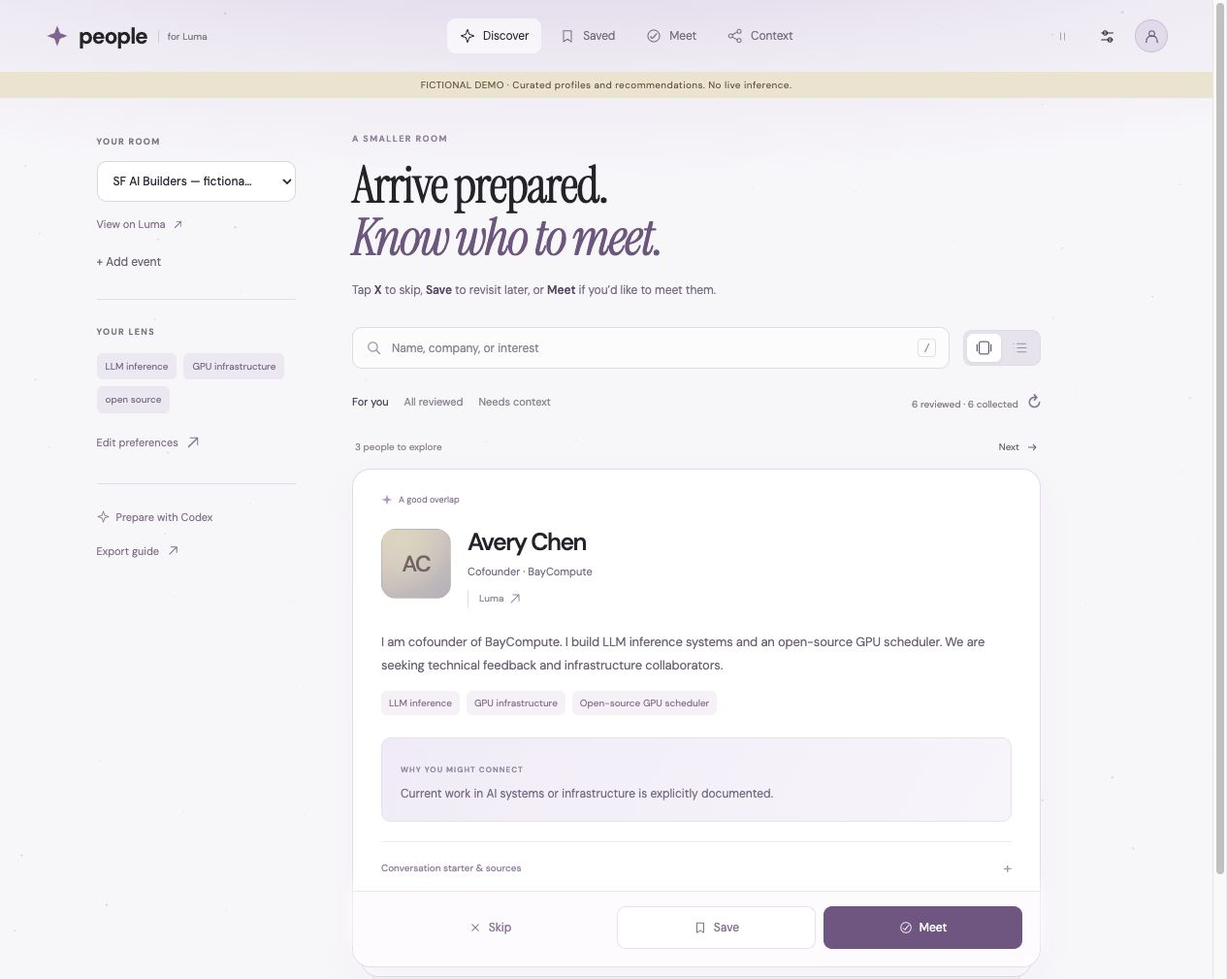
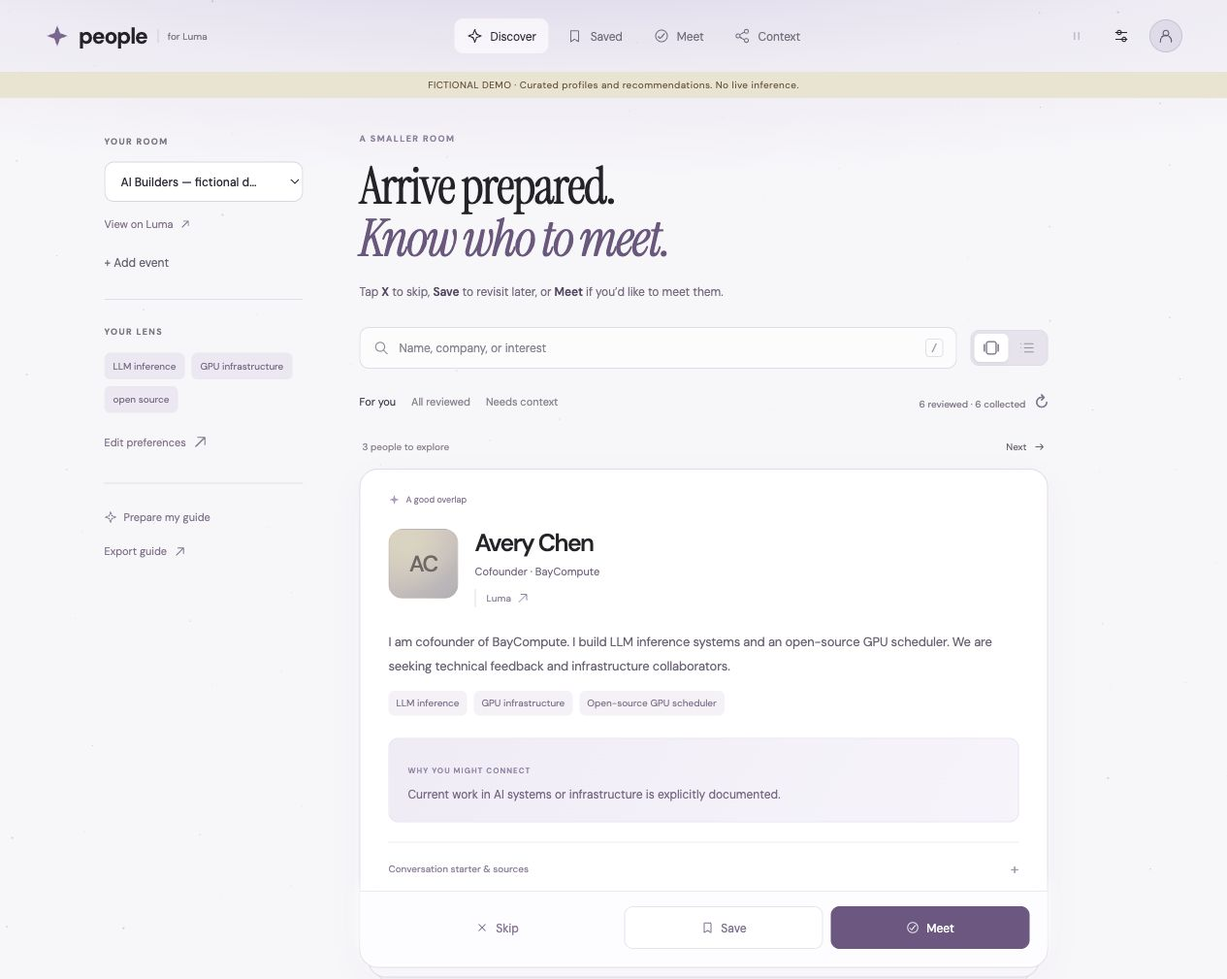
Make event guidance location neutral

diff --git a/src/luma_review/static/app.js b/src/luma_review/static/app.js
@@ -81,7 +81,7 @@
   }
   function setupView() {
     const q=state.questions[step-1];
-    return `<main class="setup"><aside class="setup-art"><div class="eyebrow">MAKE EVERY HELLO COUNT</div><h1>Arrive prepared.<br><em>Know who to meet.</em></h1><p>Your interests. The right people.<br>A reason to say hello.</p></aside><section class="setup-panel"><div class="setup-progress"><span>${step===0?'CONNECT':step===6?'YOUR AGENT':`YOUR PROFILE · ${step} OF 5`}</span><div class="progress-dots">${Array.from({length:7},(_,i)=>`<i class="${i<=step?'done':''}"></i>`).join('')}</div></div>${step===0?`<div class="setup-copy"><span class="setup-symbol">${icon('event')}</span><h2>${hosted?'A better evening starts here.':'Connect your room.'}</h2><p>${hosted?'Five quick questions. Your agent takes care of the research.':'Sign in to Luma once in the app’s research browser.'}</p>${!hosted?'<button id="setup-luma" class="primary full">Connect Luma ↗</button><p class="hint">Enter your verification code on Luma, then return here.</p>':''}<button id="luma-continue" class="${hosted?'primary':'secondary'} full">${hosted?'Get started':'Continue'} ${icon('arrow')}</button><button id="try-demo" class="text-button">Explore the fictional demo</button></div>`:step===6?`<div class="setup-copy"><h2>Connect once. Meet better.</h2><p>Your agent does the research. You make the connection.</p>${connectionFields()}<button class="primary full" id="finish-setup">${editing?'Save connections':'Find my people'} ${icon('arrow')}</button><p class="hint">You can change this anytime.</p></div>`:`<form id="question-form"><h2>${esc(q?.label)}</h2><p>${esc(q?.hint)}</p><textarea id="answer" name="answer" aria-label="${esc(q?.label)}" required maxlength="3000" placeholder="${esc(questionPlaceholder(q?.id))}">${esc(answers[q?.id]||'')}</textarea>${q?.id==='interests'?'<span class="hint">Separate topics with commas.</span>':''}${step===5?`<details class="setup-detail"><summary>Must-have criteria <span class="muted">optional</span></summary><textarea id="must-haves" aria-label="Must-have criteria" placeholder="One indispensable requirement per line">${esc((answers.must_haves||[]).join('\n'))}</textarea></details>`:''}<div class="step-actions"><button type="button" id="setup-back" class="text-button">${icon('back')} Back</button><button type="submit" class="primary">${step===5?'Create profile':'Continue'} ${icon('arrow')}</button></div></form>`}</section></main>`;
+    return `<main class="setup"><aside class="setup-art"><div class="eyebrow">MAKE EVERY HELLO COUNT</div><h1>Arrive prepared.<br><em>Know who to meet.</em></h1><p>Your interests. The right people.<br>A reason to say hello.</p></aside><section class="setup-panel"><div class="setup-progress"><span>${step===0?'CONNECT':step===6?'YOUR AGENT':`YOUR PROFILE · ${step} OF 5`}</span><div class="progress-dots">${Array.from({length:7},(_,i)=>`<i class="${i<=step?'done':''}"></i>`).join('')}</div></div>${step===0?`<div class="setup-copy"><span class="setup-symbol">${icon('event')}</span><h2>${hosted?'Your next event starts here.':'Connect your room.'}</h2><p>${hosted?'Five quick questions. Your agent takes care of the research.':'Sign in to Luma once in the app’s research browser.'}</p>${!hosted?'<button id="setup-luma" class="primary full">Connect Luma ↗</button><p class="hint">Enter your verification code on Luma, then return here.</p>':''}<button id="luma-continue" class="${hosted?'primary':'secondary'} full">${hosted?'Get started':'Continue'} ${icon('arrow')}</button><button id="try-demo" class="text-button">Explore the fictional demo</button></div>`:step===6?`<div class="setup-copy"><h2>Connect once. Meet better.</h2><p>Your agent does the research. You make the connection.</p>${connectionFields()}<button class="primary full" id="finish-setup">${editing?'Save connections':'Find my people'} ${icon('arrow')}</button><p class="hint">You can change this anytime.</p></div>`:`<form id="question-form"><h2>${esc(q?.label)}</h2><p>${esc(q?.hint)}</p><textarea id="answer" name="answer" aria-label="${esc(q?.label)}" required maxlength="3000" placeholder="${esc(questionPlaceholder(q?.id))}">${esc(answers[q?.id]||'')}</textarea>${q?.id==='interests'?'<span class="hint">Separate topics with commas.</span>':''}${step===5?`<details class="setup-detail"><summary>Must-have criteria <span class="muted">optional</span></summary><textarea id="must-haves" aria-label="Must-have criteria" placeholder="One indispensable requirement per line">${esc((answers.must_haves||[]).join('\n'))}</textarea></details>`:''}<div class="step-actions"><button type="button" id="setup-back" class="text-button">${icon('back')} Back</button><button type="submit" class="primary">${step===5?'Create profile':'Continue'} ${icon('arrow')}</button></div></form>`}</section></main>`;
   }
   function questionPlaceholder(id){return {work:'I’m building…',interests:'AI infrastructure, design, climate…',looking_for:'A collaborator, practical feedback, a new perspective…',connect_with:'People building or researching…',can_offer:'Experience with…, an introduction, thoughtful feedback…'}[id]||'';}
   function bindSetup() {
@@ -110,7 +110,7 @@
     if(!guide)return '<div class="empty"><h2>Add an event to begin.</h2></div>';
     const counts=guide.counts, saved=view==='saved', meet=view==='meet';
     const title=saved?'Worth another look.':meet?'Your next hello.':'Arrive prepared.<br><em>Know who to meet.</em>';
-    const sub=saved?'Good connections are worth keeping.':meet?'A few people. A better evening.':'Tap <b>X</b> to skip, <b>Save</b> to revisit later, or <b>Meet</b> if you’d like to meet them.';
+    const sub=saved?'Good connections are worth keeping.':meet?'A few people. A better event.':'Tap <b>X</b> to skip, <b>Save</b> to revisit later, or <b>Meet</b> if you’d like to meet them.';
     const active=filteredPeople().length;
     return `<div class="page-heading"><div class="eyebrow">${saved?'YOUR SHORTLIST':meet?'PEOPLE TO MEET':'A SMALLER ROOM'}</div><h1>${title}</h1><p>${sub}</p></div><div class="discovery-toolbar"><div class="search-wrap">${icon('search')}<input id="search" type="search" aria-label="Search people" placeholder="Name, company, or interest" value="${esc(query)}" autocomplete="off"><kbd>/</kbd></div><div class="segmented" aria-label="Browse style"><button data-mode="stack" class="${mode==='stack'?'active':''}" aria-label="Card stack" aria-pressed="${mode==='stack'}">${icon('cards')}</button><button data-mode="list" class="${mode==='list'?'active':''}" aria-label="Scroll profiles" aria-pressed="${mode==='list'}">${icon('list')}</button></div></div>${!saved&&!meet?`<div class="discovery-meta"><div class="small-tabs">${[['suggested','For you'],['all','All reviewed'],['verify','Needs context']].map(([id,label])=>`<button data-filter="${id}" class="${filter===id?'active':''}">${label}</button>`).join('')}</div><span class="coverage">${counts.reviewed} reviewed · ${counts.captured} collected${guide.event.displayed_guest_count>counts.captured?' · '+guide.event.displayed_guest_count+' shown on Luma':''}${guide.event.roster_complete===false?' · partial list':''}${!exported?` <button id="analyze" aria-label="Refresh analysis" title="Refresh analysis">↻</button>`:''}</span></div>`:`<div class="discovery-meta"><span class="muted">${saved?navCount('saved'):navCount('meet')} ${(saved?navCount('saved'):navCount('meet'))===1?'person':'people'}</span><span class="hint">${meet?'Meet is a private plan; no message is sent.':''}</span></div>`}${state.job.running?`<div class="notice" id="analysis-progress" role="status">Updating your guide · <span>${esc(state.job.stage||'Starting')} · ${state.job.current||0}/${state.job.total||'…'}</span><button id="stop-agent" class="text-button">Stop</button></div>`:''}${state.job.stopped?'<div class="notice">Stopped. Completed work is saved; refresh to resume.</div>':''}${state.agent?.needs_action?`<div class="notice">${esc(state.agent.needs_action)} <button id="agent-action-needed" class="text-button">Open connections</button></div>`:''}${state.job.error?`<div class="notice error">${esc(state.job.error)}</div>`:''}${Object.keys(guide.errors||{}).length?'<div class="notice error">Some profiles need another analysis attempt.</div>':''}<div id="discovery-results" aria-live="polite">${cardsView()}</div><div class="guide-footer"><span id="remaining-count">${saved?navCount('saved')+' saved':meet?navCount('meet')+' to meet':active+' in your stack'}</span>${exported?'<span>Read-only export</span>':''}</div>`;
   }

diff --git a/src/luma_review/static/browser-workspace.js b/src/luma_review/static/browser-workspace.js
@@ -5,11 +5,13 @@
   const QUESTIONS=[
     {id:'work',label:'What are you working on?',hint:'Your role, project, or company in one sentence.'},
     {id:'interests',label:'What catches your curiosity?',hint:'A few professional topics you could talk about for hours.'},
-    {id:'looking_for',label:'What would make the evening worthwhile?',hint:'A collaborator, feedback, customers, or a fresh perspective.'},
+    {id:'looking_for',label:'What would make this event worthwhile?',hint:'A collaborator, feedback, customers, or a fresh perspective.'},
     {id:'connect_with',label:'Who would you love to meet?',hint:'The roles, experience, or backgrounds that matter to you.'},
     {id:'can_offer',label:'What can you bring to the conversation?',hint:'Experience, useful feedback, an introduction, or something to build together.'}
   ];
   const clone=value=>JSON.parse(JSON.stringify(value));
+  // Older onboarding added this unused tag without asking the user. Keep IDs and reviewed work.
+  const cleanLegacyBrief=brief=>{if(brief?.region==='San Francisco Bay Area'){const {region,...rest}=brief;return rest;}return brief;};
   function url(value,luma=false){const parsed=new URL(value);if(!['https:','http:'].includes(parsed.protocol)||parsed.username||parsed.password)throw new Error('Use a valid HTTP(S) link.');if(luma&&!['luma.com','lu.ma','www.luma.com'].includes(parsed.hostname))throw new Error('Use a Luma event link.');if(luma){parsed.hostname='luma.com';parsed.protocol='https:';parsed.search='';parsed.hash='';}return parsed.href.replace(/\/$/,'');}
   function criteria(brief){
     const cell=v=>String(v).replace(/\|/g,'\\|').replace(/[\r\n]+/g,' ');
@@ -17,16 +19,16 @@
     brief.must_haves.forEach((v,i)=>rows.push(`| M${i+1} | must | 0 | ${cell(v)} | Explicit professional evidence; missing information is unknown |`));
     const preferences=[['P1',4,'Professional work or interests relevant to: '+brief.interests.join(', ')],['P2',5,'Background relevant to: '+brief.connect_with],['P3',5,'Experience that could contribute to: '+brief.looking_for],['P4',2,'Professional context where my contribution may be useful: '+brief.can_offer]];
     for(const [id,weight,condition] of preferences)rows.push(`| ${id} | prefer | ${weight} | ${cell(condition)} | A specific role, project, or declared professional activity; no inferred willingness |`);
-    rows.push('','## Rules','','Use English for summaries and reasons. Preserve source quotes verbatim. Missing evidence means unknown, not no. Shared context does not establish a personal relationship.');return rows.join('\n')+'\n';
+    rows.push('','## Rules','','Apply a geographic preference only when I explicitly state one in my answers or criteria.','Use English for summaries and reasons. Preserve source quotes verbatim. Missing evidence means unknown, not no. Shared context does not establish a personal relationship.');return rows.join('\n')+'\n';
   }
   function makeBrief(value){
-    const brief={version:1,region:'San Francisco Bay Area',id:'browser-profile'};
+    const brief={version:1,id:'browser-profile'};
     for(const q of QUESTIONS){let answer=value[q.id];if(q.id==='interests'){answer=Array.isArray(answer)?answer:String(answer||'').split(',');brief.interests=[...new Set(answer.map(s=>String(s).trim()).filter(Boolean))];if(!brief.interests.length||brief.interests.length>20)throw new Error('Add between one and twenty interests.');}else{if(typeof answer!=='string'||!answer.trim()||answer.length>3000)throw new Error('Add a short answer to each question.');brief[q.id]=answer.trim();}}
     brief.must_haves=Array.isArray(value.must_haves)?value.must_haves:String(value.must_haves||'').split('\n').map(s=>s.trim()).filter(Boolean);if(brief.must_haves.length>20||brief.must_haves.some(v=>typeof v!=='string'||!v.trim()||v.length>3000))throw new Error('Keep must-have criteria below twenty.');return brief;
   }
   function validateGuide(value){
     if(!value||!Array.isArray(value.people)||!value.event||!value.brief||!value.graph||!Array.isArray(value.graph.nodes)||!Array.isArray(value.graph.edges)||typeof value.criteria_markdown!=='string')throw new Error('Choose a reviewed guide JSON, exported by your agent or the local app.');
-    const guide=clone(value);guide.event.url=url(guide.event.url,true);makeBrief(guide.brief);
+    const guide=clone(value);guide.event.url=url(guide.event.url,true);makeBrief(guide.brief);guide.brief=cleanLegacyBrief(guide.brief);
     if(!guide.event_id||!guide.people.length||guide.people.length>10000)throw new Error('The guide needs an event ID and reviewed profiles.');
     const seen=new Set(),statuses=['Preference match','Meets required criteria','Needs verification','No preferences matched','Outside criteria'];
     for(const p of guide.people){
@@ -46,6 +48,7 @@
   }
   function create(storage,fetcher){
     let current;try{current=JSON.parse(storage.getItem(KEY)||'null');}catch{}current=current||{brief:null,events:[],guides:{},settings:{backend:'agent',model:'',luma:'browser',setup_complete:true}};
+    current.brief=cleanLegacyBrief(current.brief);for(const guide of Object.values(current.guides))guide.brief=cleanLegacyBrief(guide.brief);
     function save(next){storage.setItem(KEY,JSON.stringify(next));current=next;}
     async function request(path,data){
       const next=clone(current),parsed=new URL(path,'https://people.example'),route=parsed.pathname;
@@ -53,7 +56,7 @@
         if(route==='/api/state')return clone({brief:current.brief,events:current.events,settings:current.settings,questions:QUESTIONS,job:{},criteria_markdown:current.criteria_markdown||'',connections:{}});
         if(route==='/api/guide'||route==='/api/export'){const id=parsed.searchParams.get('event');if(!current.guides[id])throw new Error('Add an event first.');const g=clone(current.guides[id]);if(g.analysis_stale){g.brief=current.brief;g.criteria_markdown=current.criteria_markdown;g.people=[];g.counts.reviewed=0;g.counts.recommended=0;g.graph={nodes:[],edges:[],shared_contexts:[]};}return g;}
         if(route==='/api/integration'){
-          const agent=parsed.searchParams.get('agent'),args=['--python','3.13','--from','luma-profile-review[mcp] @ git+https://github.com/EmaRimoldi/luma-profile-review.git@feature/personal-event-guide','luma-review','mcp'];
+          const agent=parsed.searchParams.get('agent'),args=['--python','3.13','--from','luma-profile-review[mcp] @ git+https://github.com/EmaRimoldi/luma-profile-review.git@main','luma-review','mcp'];
           const server={command:'uvx',args};let config=agent==='copilot'?{servers:{people_for_luma:{type:'stdio',...server}}}:agent==='opencode'?{mcp:{people_for_luma:{type:'local',command:['uvx',...args],enabled:true}}}:{mcpServers:{people_for_luma:server}};
           return {location:'Your agent’s MCP settings · requires uv',configuration:agent==='codex'?'[mcp_servers.people_for_luma]\ncommand = "uvx"\nargs = '+JSON.stringify(args):JSON.stringify(config,null,2)};
         }

diff --git a/tests/test_product.py b/tests/test_product.py
@@ -55,6 +55,17 @@ class OnboardingTests(unittest.TestCase):
         brief = make_brief({**DEMO_ANSWERS, "interests": "inference, inference, robotics"})
         self.assertEqual(brief["interests"], ["inference", "robotics"])
 
+    def test_onboarding_does_not_assign_a_region(self):
+        brief = make_brief(DEMO_ANSWERS)
+        self.assertNotIn("region", brief)
+        self.assertNotIn("San Francisco", criteria_from_brief(brief))
+
+    def test_user_location_requirement_is_preserved(self):
+        requirement = "Currently works in São Paulo"
+        brief = make_brief({**DEMO_ANSWERS, "must_haves": [requirement]})
+        rules = parse_criteria(criteria_from_brief(brief)).rules
+        self.assertEqual([r.condition for r in rules if r.kind == "must"], [requirement])
+
 
 class CollectionTests(ProductBase):
     def test_roster_capture_is_resumable_and_preserves_sources(self):
@@ -141,6 +152,38 @@ class StructureAndGraphTests(ProductBase):
 
 
 class GuideTests(ProductBase):
+    def test_legacy_region_cleanup_preserves_cached_work_and_explicit_criteria(self):
+        brief_path = self.workspace.root / "brief.json"
+        brief = self.workspace.brief()
+        brief_path.write_text(json.dumps({**brief, "region": "San Francisco Bay Area"}))
+        original_criteria = self.guide["criteria_markdown"] + "\nLocation context explicitly supplied by the user: San Francisco.\n"
+        # Keep the existing cache key: the old automatic tag never affected inference.
+        reopened = Workspace(self.workspace.root)
+        self.assertNotIn("region", reopened.brief())
+        self.assertEqual(reopened.brief()["id"], brief["id"])
+        self.assertEqual(reopened.guide(self.event_id)["counts"], self.guide["counts"])
+        reopened.save_criteria(original_criteria)
+        self.assertEqual(reopened.criteria().markdown, original_criteria)
+        brief_path.write_text(json.dumps({**brief, "region": "Berlin"}))
+        self.assertEqual(reopened.brief()["region"], "Berlin")
+
+    def test_event_location_does_not_change_deterministic_matching(self):
+        for city, slug in [("Berlin", "berlin"), ("Singapore", "singapore"), ("São Paulo", "sao-paulo")]:
+            with self.subTest(city=city):
+                dataset = copy.deepcopy(self.workspace.dataset(self.event_id))
+                dataset["event"].update(name=f"Builders in {city}", url=f"https://luma.com/test-{slug}")
+                event_id = self.workspace.import_dataset(dataset)["event_id"]
+                for stage in ["structure", "matching"]:
+                    tasks = self.workspace.tasks(event_id, stage)
+                    responses = {p["profile_url"]: p["professional"] if stage == "structure" else {
+                        "summary": p["summary"], "assessments": p["assessments"]} for p in self.guide["people"]}
+                    self.workspace.submit(event_id, stage, tasks["request_hash"], responses)
+                guide = self.workspace.guide(event_id)
+                self.assertEqual(guide["event"]["name"], f"Builders in {city}")
+                self.assertEqual(guide["counts"], self.guide["counts"])
+                self.assertEqual({p["profile_url"]: p["score"] for p in guide["people"]},
+                                 {p["profile_url"]: p["score"] for p in self.guide["people"]})
+
     def test_demo_is_explicit_and_unknown_profiles_remain_unknown(self):
         self.assertTrue(self.guide["demo"])
         morgan = next(p for p in self.guide["people"] if "Morgan" in p["name"])

diff --git a/src/luma_review/onboarding.py b/src/luma_review/onboarding.py
@@ -4,16 +4,27 @@ from .core import ReviewError, fingerprint, text
 QUESTIONS = [
     {"id": "work", "label": "What are you working on?", "hint": "Your role, project, or company in a sentence."},
     {"id": "interests", "label": "What catches your curiosity?", "hint": "A few professional topics you could talk about for hours."},
-    {"id": "looking_for", "label": "What would make the evening worthwhile?", "hint": "A collaborator, feedback, customers, or a fresh perspective."},
+    {"id": "looking_for", "label": "What would make this event worthwhile?", "hint": "A collaborator, feedback, customers, or a fresh perspective."},
     {"id": "connect_with", "label": "Who would you love to meet?", "hint": "The roles, experience, or backgrounds that matter to you."},
     {"id": "can_offer", "label": "What can you bring to the conversation?", "hint": "Your experience, a useful introduction, feedback, or a collaboration."},
 ]
 
 
+def clean_legacy_brief(brief):
+    """Drop the old automatic region tag, preserving IDs and valid cached work.
+
+    The tag was never used by scoring or inference. Explicit geographic criteria
+    and any custom region metadata are retained.
+    """
+    if isinstance(brief, dict) and brief.get("region") == "San Francisco Bay Area":
+        return {key: value for key, value in brief.items() if key != "region"}
+    return brief
+
+
 def make_brief(answers: dict) -> dict:
     if not isinstance(answers, dict):
         raise ReviewError("Onboarding answers must be an object")
-    brief = {"version": 1, "region": "San Francisco Bay Area"}
+    brief = {"version": 1}
     for question in QUESTIONS:
         key = question["id"]
         value = answers.get(key)
@@ -62,6 +73,7 @@ def criteria_from_brief(brief: dict) -> str:
     for ident, weight, condition, evidence in preferences:
         lines.append(f"| {ident} | prefer | {weight} | {cell(condition)} | {evidence} |")
     lines += ["", "## Rules", "", "These are editable preferences derived from my own answers. Only explicit must_haves are hard requirements.",
+              "Apply a geographic preference only when I explicitly state one in my answers or criteria.",
               "Missing evidence means unknown, not no. Potential professional relevance is not proof of willingness to meet, buy, invest, or collaborate.",
               "Distinguish current and past work. Base decisions on source excerpts, not a person's popularity or event attendance."]
     return "\n".join(lines) + "\n"

diff --git a/src/luma_review/demo.py b/src/luma_review/demo.py
@@ -39,8 +39,8 @@ def load_demo(workspace):
                     "title": "Fictional professional bio", "retrieved_at": "2026-10-19T12:00:00-07:00", "text": excerpt}]
         people.append({"name": name + " (demo)", "profile_url": f"https://luma.com/user/demo-{slug}",
                        "sources": sources, "outbound_links": [], "collection_complete": True})
-    dataset = {"version": 1, "demo": True, "event": {"name": "SF AI Builders — fictional demo",
-               "url": "https://luma.com/demo-sf-builders", "displayed_guest_count": len(people),
+    dataset = {"version": 1, "demo": True, "event": {"name": "AI Builders — fictional demo",
+               "url": "https://luma.com/demo-ai-builders", "displayed_guest_count": len(people),
                "collection_scope": "Six fictional profiles. Demo assessments are curated fixtures, not live model outputs.",
                "roster_complete": True}, "people": people}
     event_id = workspace.import_dataset(dataset)["event_id"]

diff --git a/src/luma_review/workspace.py b/src/luma_review/workspace.py
@@ -16,7 +16,7 @@ from .core import (PROMPT_VERSION, ReviewError, aggregate, fingerprint, make_pro
 from .graph import build_graph
 from .contact import model_profile, presentation, validate_presentation
 from .matching import evidence_ranking, keyword_ranking
-from .onboarding import QUESTIONS, criteria_from_brief, make_brief
+from .onboarding import QUESTIONS, clean_legacy_brief, criteria_from_brief, make_brief
 from .pipeline import write_json
 from .professional import referenced_urls, structure_prompt, structure_schema, validate_structure
 from .presentation import present_brief, present_criteria, present_guide
@@ -68,7 +68,7 @@ class Workspace:
         return path
 
     def brief(self):
-        return self.read(self.root / "brief.json")
+        return clean_legacy_brief(self.read(self.root / "brief.json"))
 
     def criteria(self):
         path = self.root / "criteria.md"

diff --git a/README.md b/README.md
@@ -4,7 +4,7 @@
 
 ### Arrive prepared. Know who to meet.
 
-Turn a crowded San Francisco event into a personal guide to your next good conversation.
+Turn a crowded Luma event into a personal guide to your next good conversation.
 
 [Explore the demo](https://people-for-luma.poggiolabmit.chatgpt.site) · [Get started](#your-first-guide) · [Setup help](docs/onboarding.md) · [Contribute](#build-with-us)
 
@@ -20,6 +20,21 @@ Turn a crowded San Francisco event into a personal guide to your next good conve
 **Your interests → your criteria → your people.** Connect Luma and your agent;
 your agent researches accessible professional profiles and explains whom to meet.
 Research, progress, and results stay in the app.
+
+<details>
+<summary><strong>Events, locations & languages</strong></summary>
+
+Designed for Luma events in any city, with recommendations based on your own
+profile and criteria. Add a location requirement only if it matters to you.
+Guest-list access, registration, and readable professional sources still determine
+what can be researched. This alpha has not been validated at events everywhere.
+
+The interface and generated summaries are in English; source quotes stay in their
+original language. Automatic guest-list collection currently recognizes English
+and Italian labels; other Luma interface languages and multilingual recommendation
+quality need further validation.
+
+</details>
 
 ## Your first guide
 
@@ -74,7 +89,7 @@ choose your backend, then **Find my people**.
 | --- | --- |
 | **What are you working on?** | “I'm building an open-source inference tool.” |
 | **What catches your curiosity?** | “GPU infrastructure, LLM serving, open source.” |
-| **What would make the evening worthwhile?** | “Practical feedback and a potential collaborator.” |
+| **What would make this event worthwhile?** | “Practical feedback and a potential collaborator.” |
 | **Who would you love to meet?** | “Engineers running inference systems in production.” |
 | **What can you bring to the conversation?** | “Benchmarking experience and thoughtful technical feedback.” |
 

diff --git a/docs/product.md b/docs/product.md
@@ -2,7 +2,7 @@
 
 ## Purpose and audience
 
-Help a person attending San Francisco professional events identify a small
+Help a person attending professional events on Luma identify a small
 number of useful conversations. The primary user is an individual attending
 an event, not an organizer assigning meetings between every pair of guests.
 The unit of value is a relevant conversation with a clear reason to begin it.
@@ -11,6 +11,22 @@ The product begins with the user's work, interests, desired outcomes, hoped-for
 connections, and possible contribution. It should find complementary experience
 as well as similar interests. It must distinguish professional fit from a
 claim that someone is available or interested in the proposed interaction.
+
+## Geographic scope
+
+City is event context, not a built-in eligibility rule. Onboarding assigns no
+default city or region. A geographic preference is considered only when the user
+includes it in their answers or editable criteria; only explicit must-haves are
+hard requirements. Existing workspaces drop the former automatic region tag when
+read, preserving profile IDs, cached assessments, source evidence, and decisions.
+Explicit location criteria and custom region metadata are preserved.
+
+The demo uses a fictional event without an assumed city. Synthetic workflow checks
+cover events labeled Berlin, Singapore, and São Paulo; they do not establish live
+collection success or recommendation usefulness in those cities. Access controls,
+available sources, and Luma interface changes still affect collection. The current
+collector recognizes English and Italian guest-list labels; comprehensive
+localization and multilingual relevance evaluation remain outside verified scope.
 
 ## Core loop shipped in 0.2
 

diff --git a/docs/onboarding.md b/docs/onboarding.md
@@ -26,6 +26,8 @@ Use `--port 8766` if 8765 is occupied; website handoff requires 8765.
 2. **Answer the five questions.** Describe your work, interests, goal, ideal
    connections, and contribution. Only explicit must-haves become hard filters.
    Review or edit the resulting Markdown through **Edit preferences**.
+   There is no default city. If location matters, mention it in your answers or
+   add it as an explicit must-have (for example, “Currently works in Berlin”).
 3. **Choose your backend in Connections.**
 
    | Connection | Setup |
@@ -46,6 +48,19 @@ Use `--port 8766` if 8765 is occupied; website handoff requires 8765.
 The Codex catalog and a configured API key are not proof of model entitlement.
 A successful request confirms access. Claude CLI authentication, billing, and
 organization policies remain controlled by Claude. See [backends](backends.md).
+
+## Events outside your home city
+
+Use the same profile and workflow for a Luma event in another city, or update
+your goals for that event. The application does not restrict events by city.
+Older automatic region tags are ignored without discarding completed research;
+location requirements you wrote yourself stay in your criteria.
+
+The app and generated summaries use English, with original source quotes kept
+verbatim. The collector recognizes English and Italian guest-list labels. If a
+different Luma interface language prevents collection, try Luma in English and
+retry. Successful access and recommendation quality still need validation on your
+event; global availability is not a promise of complete guest lists or profiles.
 
 ## Recover without starting over
 

diff --git a/docs/redesign.md b/docs/redesign.md
@@ -69,10 +69,10 @@ made for this redesign. Official CLIs continue to manage subscription access.
 | Desktop wrapper | Could package browser access later, with a larger distribution and maintenance surface |
 
 [uvx](https://docs.astral.sh/uv/guides/tools/) provides isolated tool execution
-and supports Git sources. While this branch is under review:
+and supports Git sources. Launch the current version from `main`:
 
 ```sh
-uvx --python 3.13 --from 'luma-profile-review[mcp] @ git+https://github.com/EmaRimoldi/luma-profile-review.git@feature/personal-event-guide' luma-review serve --workspace ~/.luma-profile-review
+uvx --python 3.13 --from 'luma-profile-review[mcp] @ git+https://github.com/EmaRimoldi/luma-profile-review.git@main' luma-review serve --workspace ~/.luma-profile-review
 ```
 
 This requires uv; the first run may fetch Python and build the package.
